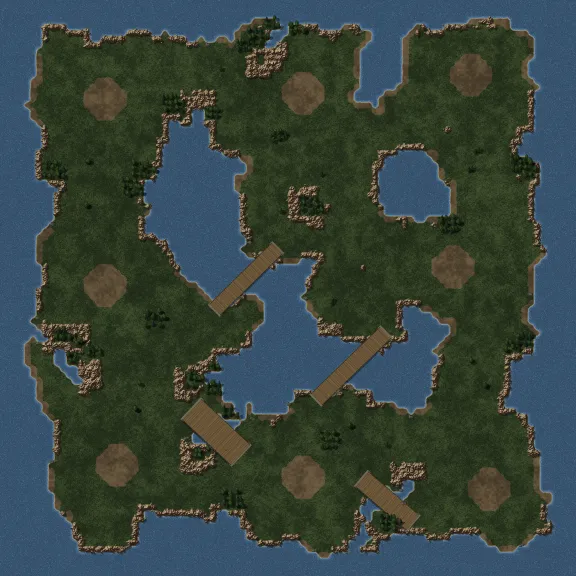
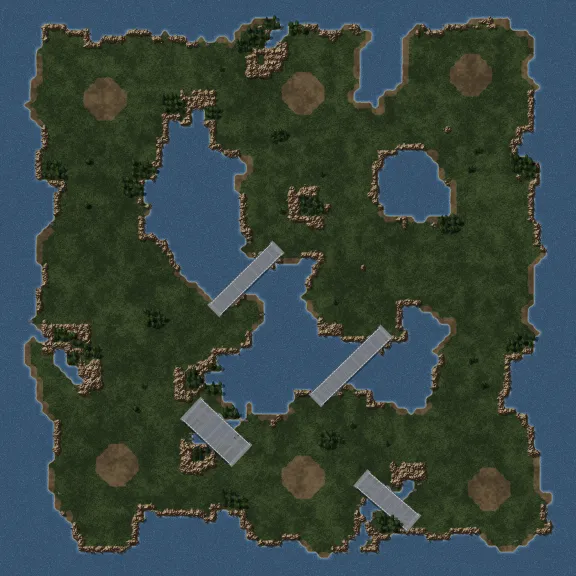
Lakeside: six start positions (middle two removed), concrete bridges
Claude-Session: https://claude.ai/code/session_018itzs7vACCyF6z2dYKoDqi

diff --git a/src/maps.js b/src/maps.js
@@ -419,20 +419,21 @@ const MAPS = {
     name: 'Lakeside',
     img: 'maps/lakes.png',
     blurb: 'An island of lakes for 3 v 3. The north fights the south round the lakes in the middle: five bridges cross them, and narrow land joins the flanks. Every base has ore of its own, with gems behind each and out by the lakes.',
-    info: '96 × 96 cells · 8 start positions · made for 3 v 3',
+    info: '96 × 96 cells · 6 start positions · made for 3 v 3',
+    bridge: 'concrete',   // concrete bridges (art.js concreteBridge)
     size: 96,   // cells a side, as in the design (one design cell is one game cell)
-    // The north (start positions 0-3) against the south (4-7). Nearly symmetric by a half turn, so each start has a
+    // The north (start positions 0-2) against the south (3-5); the design's two middle starts were removed (owner's call). Nearly symmetric by a half turn, so each start has a
     // twin on the other side. (The tool lists starts west first; they are reordered here.)
-    teams: [[0, 1, 2, 3], [4, 5, 6, 7]],
+    teams: [[0, 1, 2], [3, 4, 5]],
     teamSize: 3,
     // A fixed layout, traced from the owner's design (maps/designs/lakes.png) by
     // python3 tools/map-from-image.py maps/designs/lakes.png 96 96 --decks
     // Its bridges are diagonal (genLayoutMap fits each along its run). Ore as on Snowbound: the traced fields (every start
-    // has its own), gem fields [x, y, radius] one behind each start position (same order as spawns), then pairs out on
+    // has its own), gem fields [x, y, radius] one behind each start position (same order as spawns), a pair where the middle starts were, then pairs out on
     // the map, twins by the half turn.
-    gems: [[11, 12, 2.4], [52, 10, 2.4], [84, 8, 2.4], [10, 44, 2.4], [83, 47, 2.4], [13, 81, 2.4], [54, 84, 2.4], [86, 80, 2.4],
+    gems: [[11, 12, 2.4], [52, 10, 2.4], [84, 8, 2.4], [13, 81, 2.4], [54, 84, 2.4], [86, 80, 2.4], [10, 44, 2.4], [83, 47, 2.4],
       [42, 22, 2.6], [56, 69, 2.6], [30, 58, 2.6], [66, 38, 2.6]],
-    spawns: [[17,16],[50,15],[78,12],[17,47],[75,44],[19,77],[50,79],[81,81]],
+    spawns: [[17,16],[50,15],[78,12],[19,77],[50,79],[81,81]],
     rows: [
       '96~',
       '96~',

diff --git a/CLAUDE.md b/CLAUDE.md
@@ -407,7 +407,8 @@ share globals. Read this file first; the commit history explains every change in
 ## Map "Lakeside", a small 3 v 3 map (after 2026.11.14.1, not released, both modes)
 
 - `MAPS.lakes`: traced 1:1 from `maps/designs/lakes.png` (96 design cells = **96 x 96** game cells, the size asked for),
-  `teamSize: 3`, north (starts 0-3) against south (4-7), nearly symmetric by a half turn. Name is a placeholder.
+  `teamSize: 3`, 6 starts: north (0-2) against south (3-5), nearly symmetric by a half turn; the design's two middle
+  starts were removed at the owner's request. Concrete bridges. Name is a placeholder.
 - Its bridges are diagonal: `--decks` in `tools/map-from-image.py` turns strips of the deck colour (100, 88, 84) and the
   rails touching them into bridge cells, and `genLayoutMap` fits a run of bridge cells within 22.5 degrees of a diagonal
   along its main axis (axis-aligned runs as before, so the other maps' bakes are unchanged).
